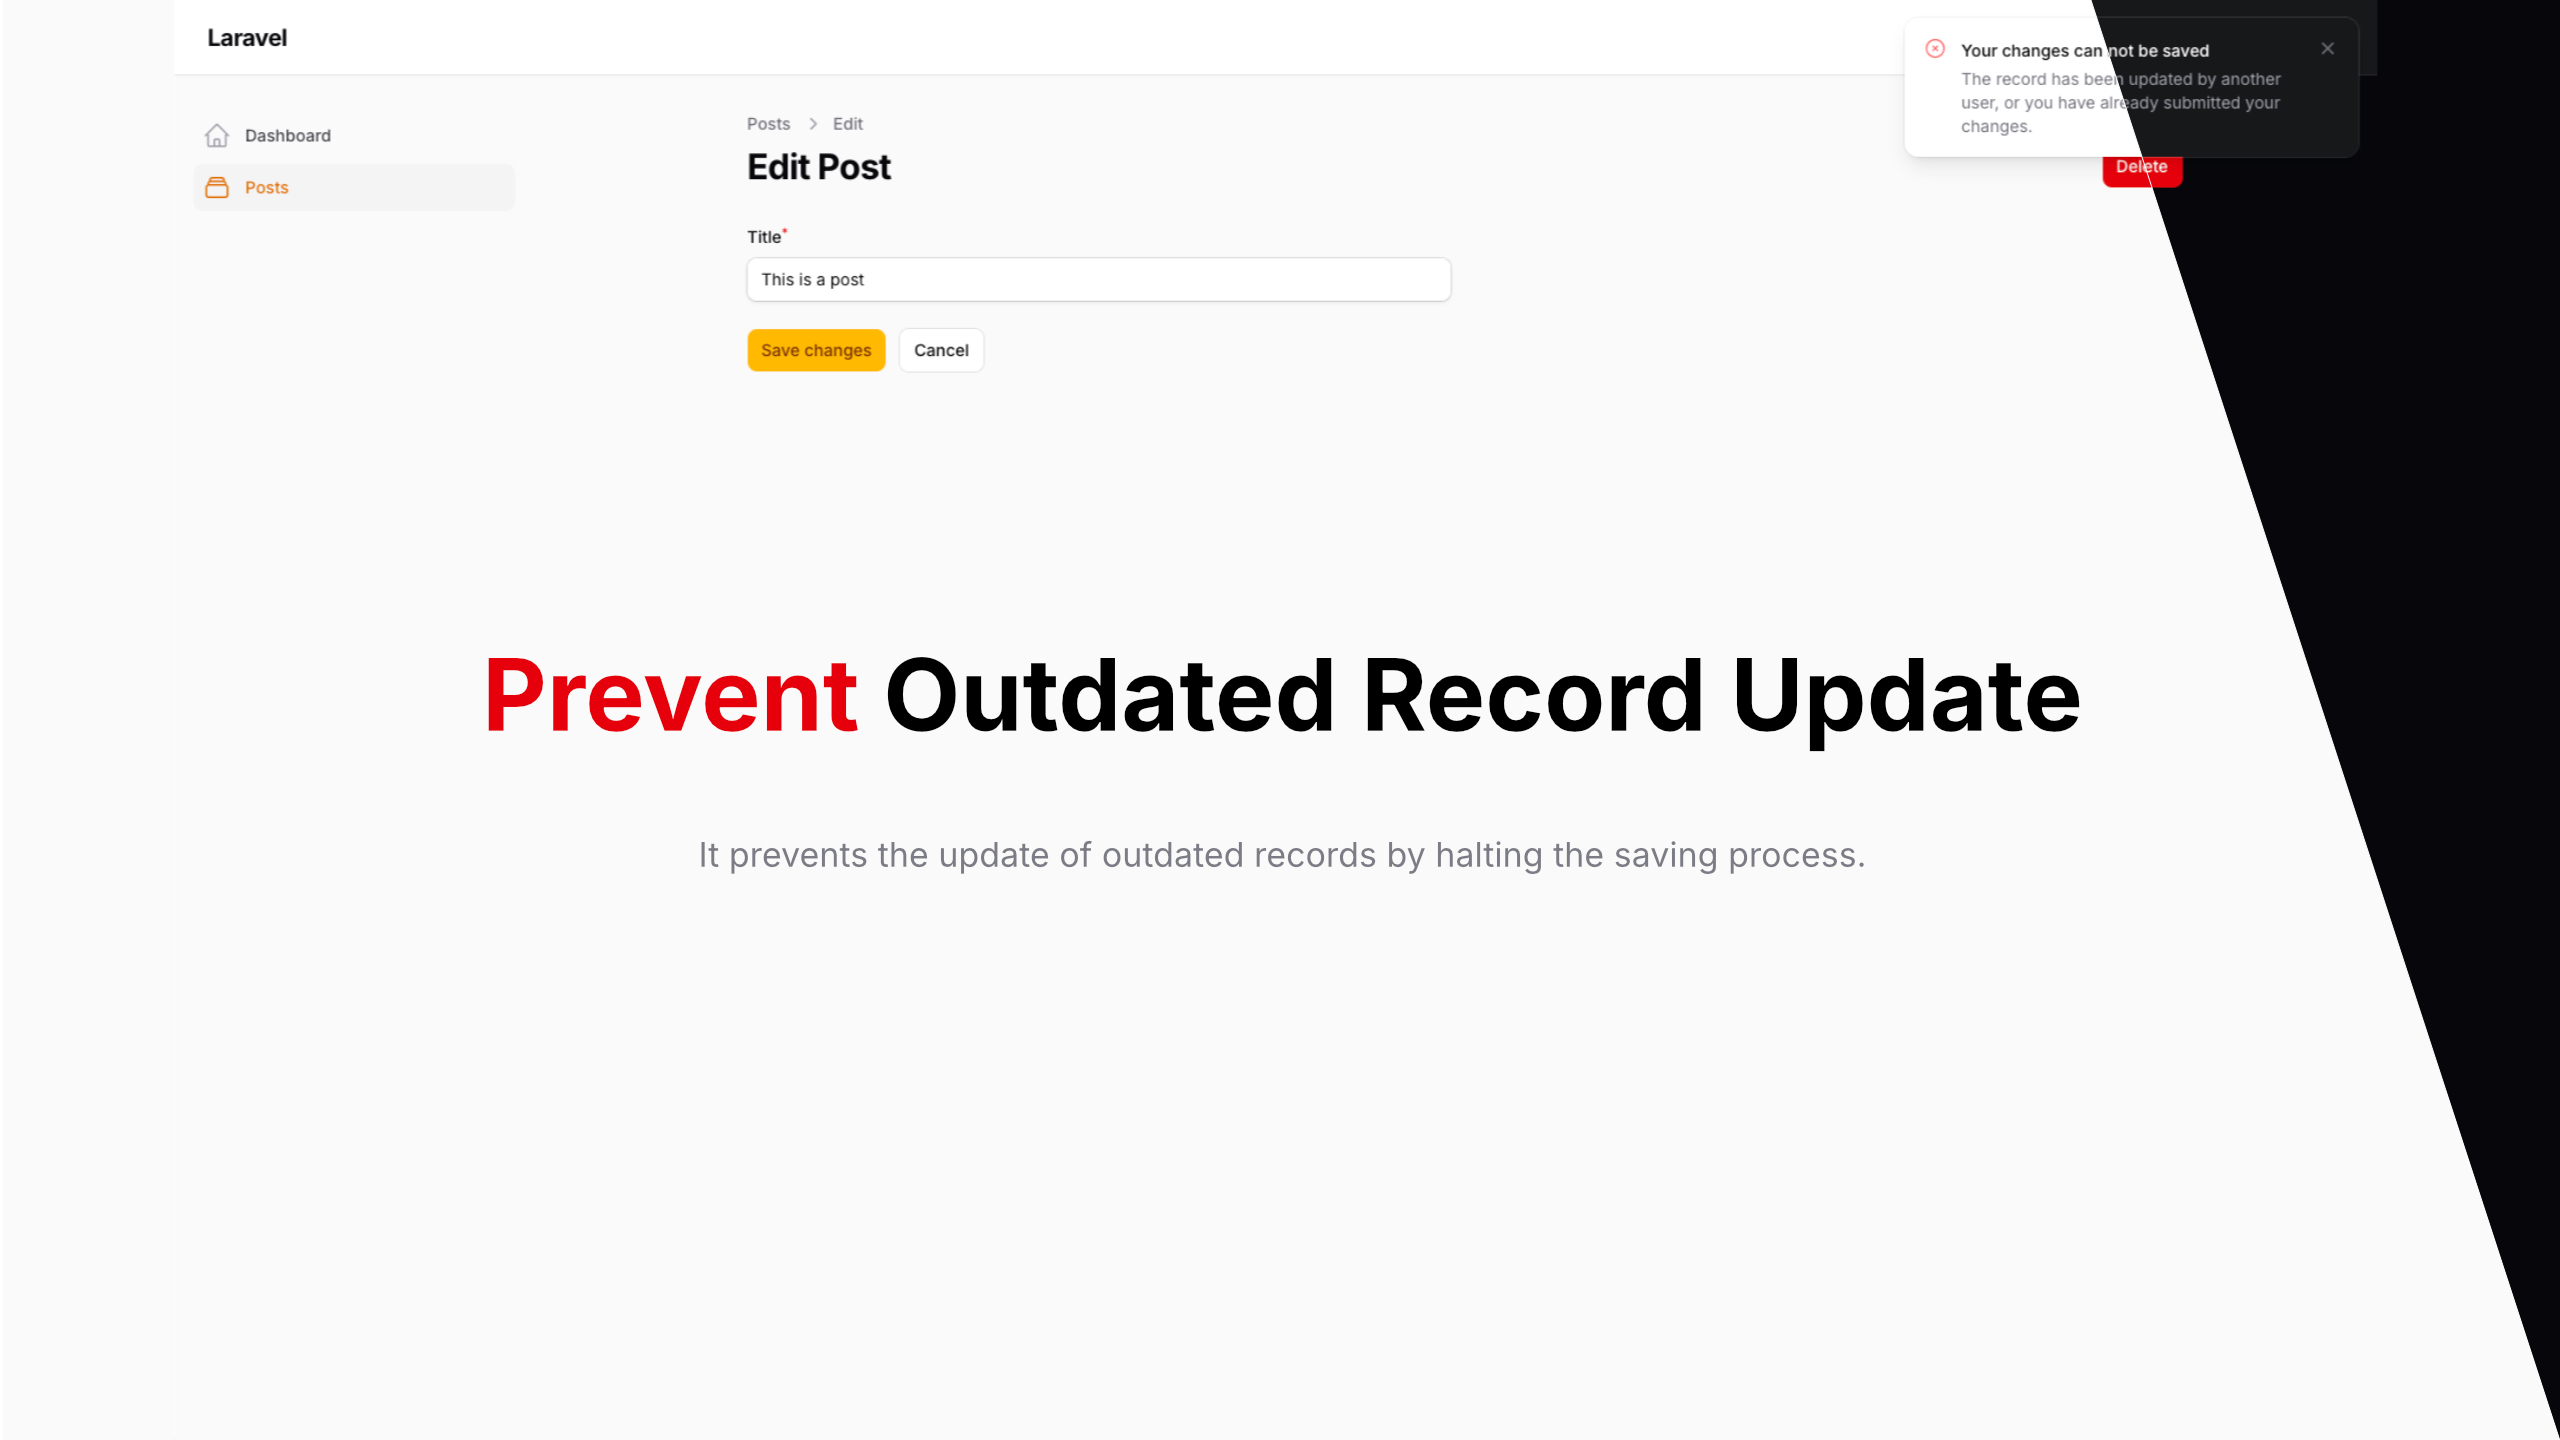
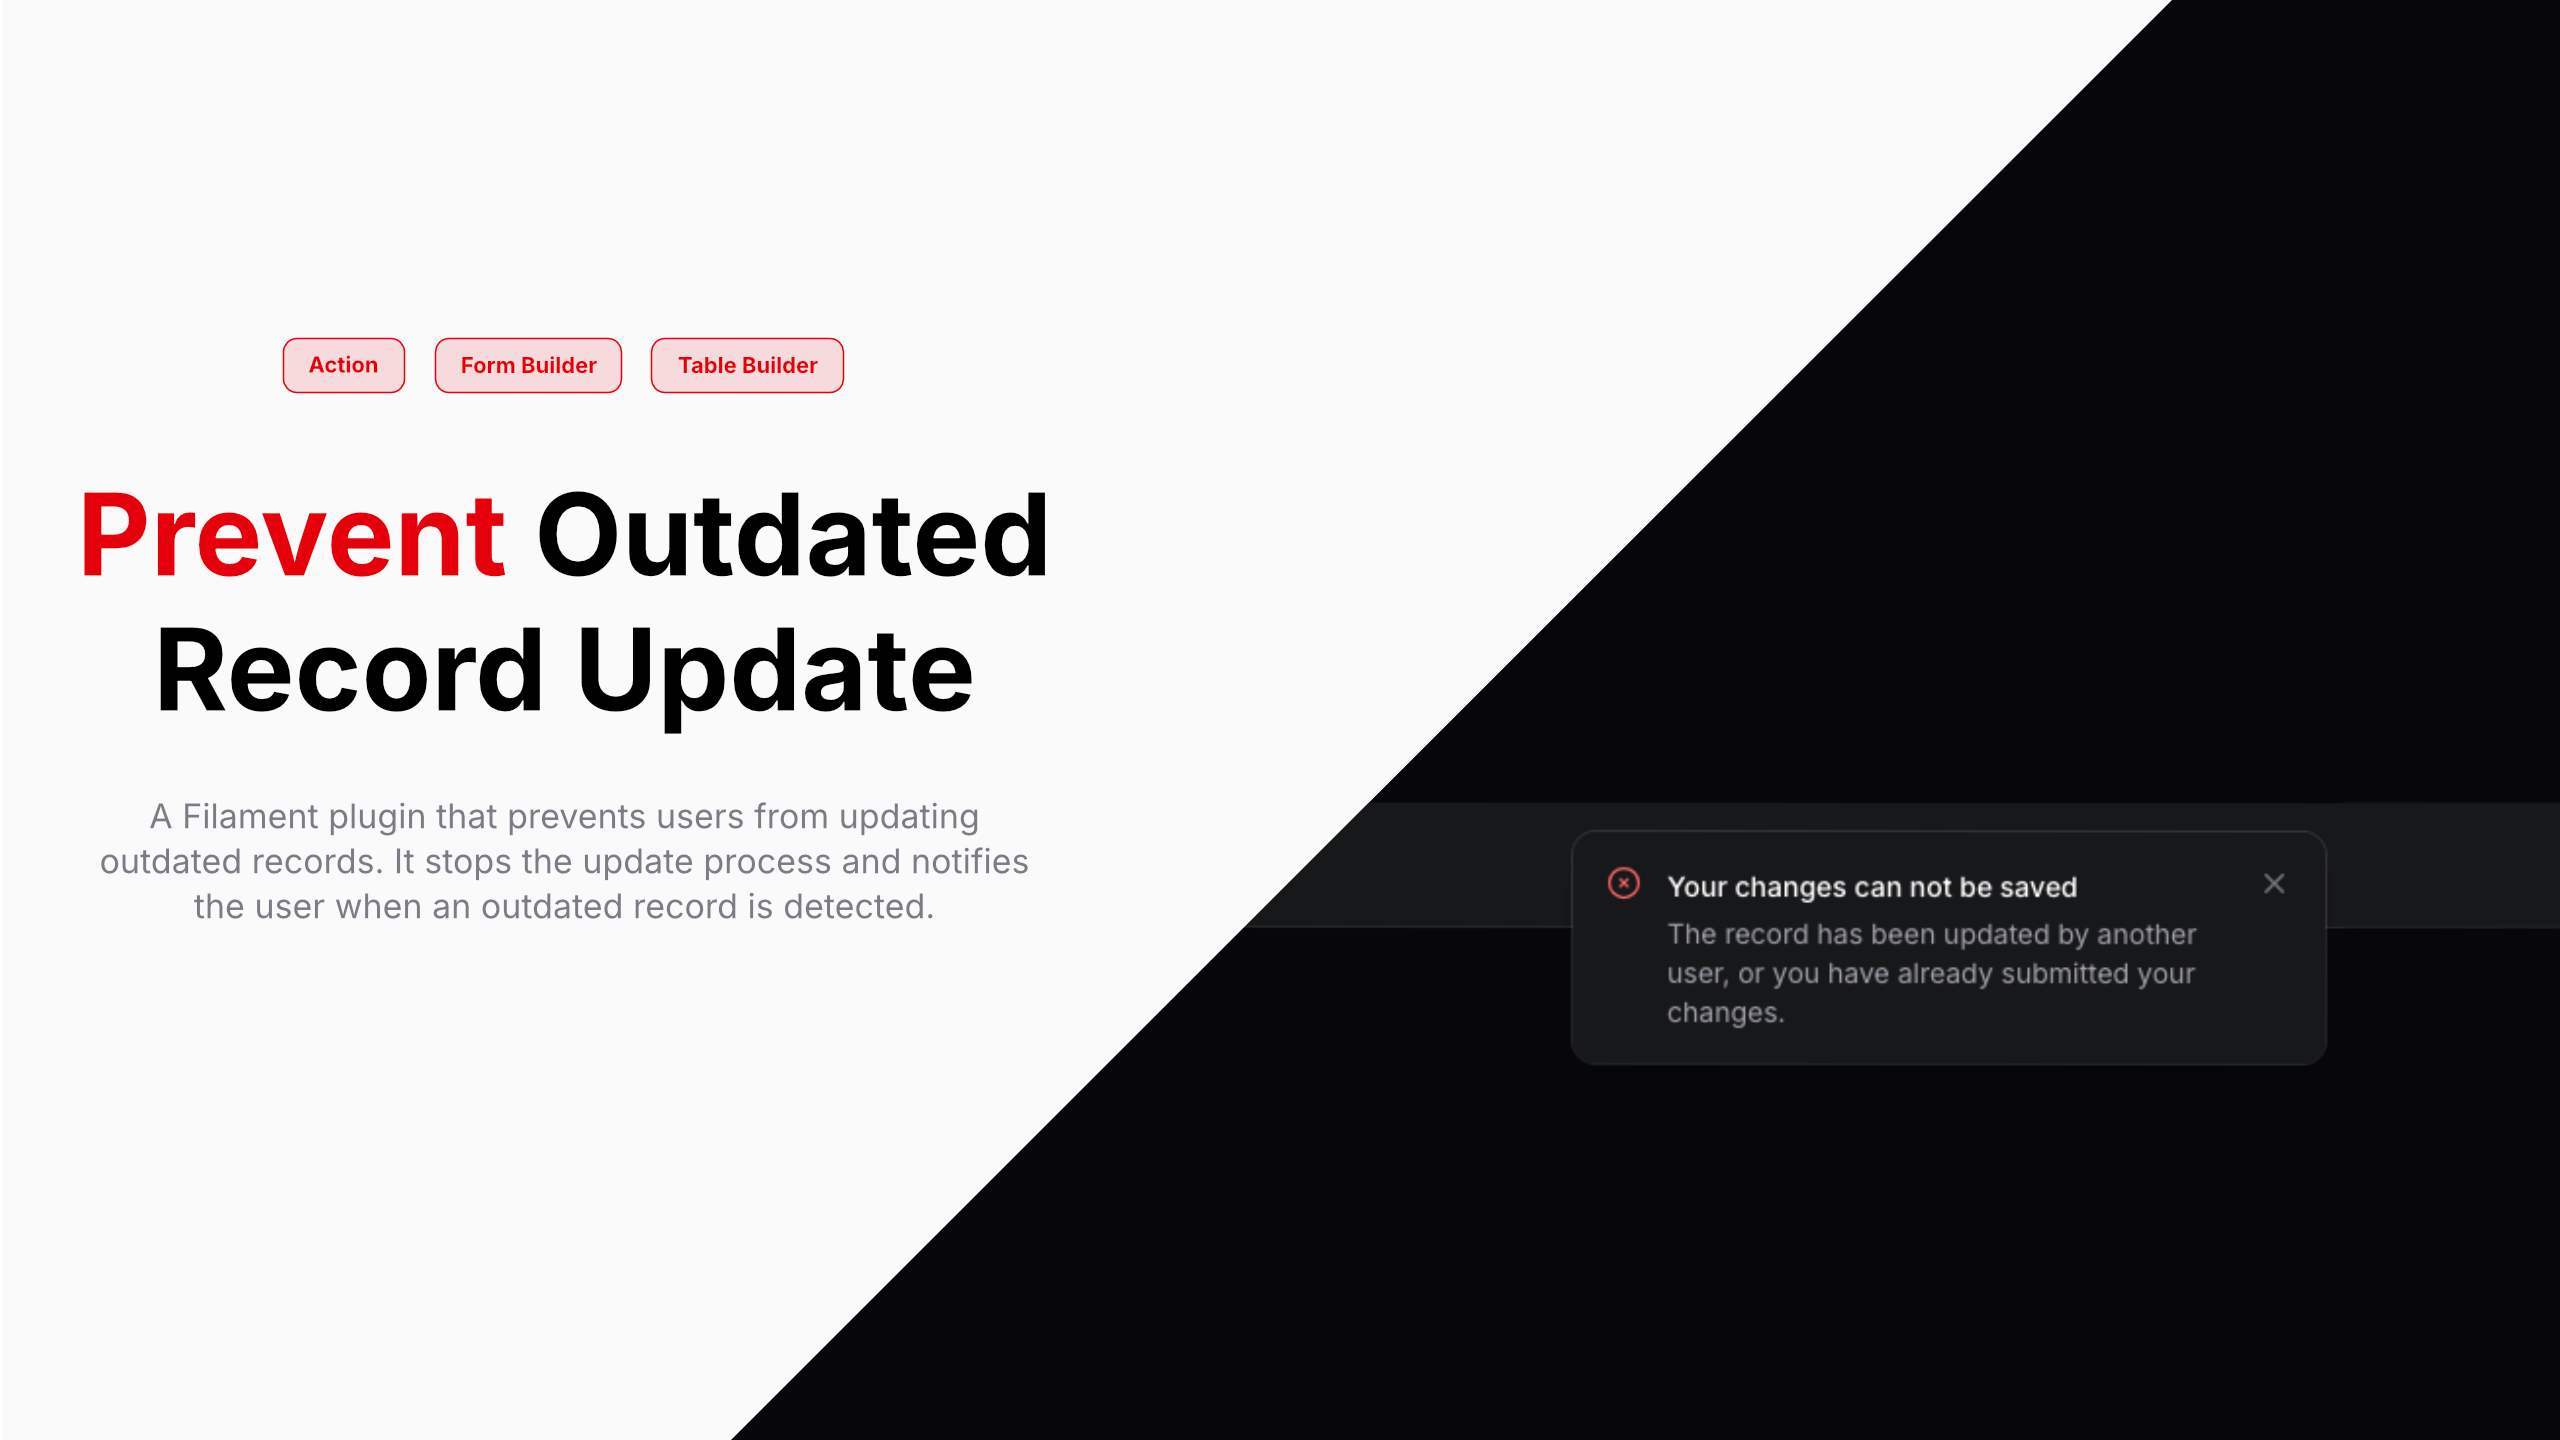
Update balismatz-prevent-outdated-record-update plugin description and image

diff --git a/content/plugins/balismatz-prevent-outdated-record-update.md b/content/plugins/balismatz-prevent-outdated-record-update.md
@@ -3,7 +3,7 @@ name: Prevent Outdated Record Update
 slug: balismatz-prevent-outdated-record-update
 author_slug: balismatz
 categories: [action, form-builder, table-builder]
-description: Prevent the update of records that have been saved by another user more recently, or where the changes have already been saved.
+description: Prevents users from updating outdated records by halting the update process and notifying the user when an outdated record is detected.
 discord_url:
 docs_url: https://raw.githubusercontent.com/balismatz/filament-prevent-outdated-record-update/4.x/README.md
 github_repository: balismatz/filament-prevent-outdated-record-update
